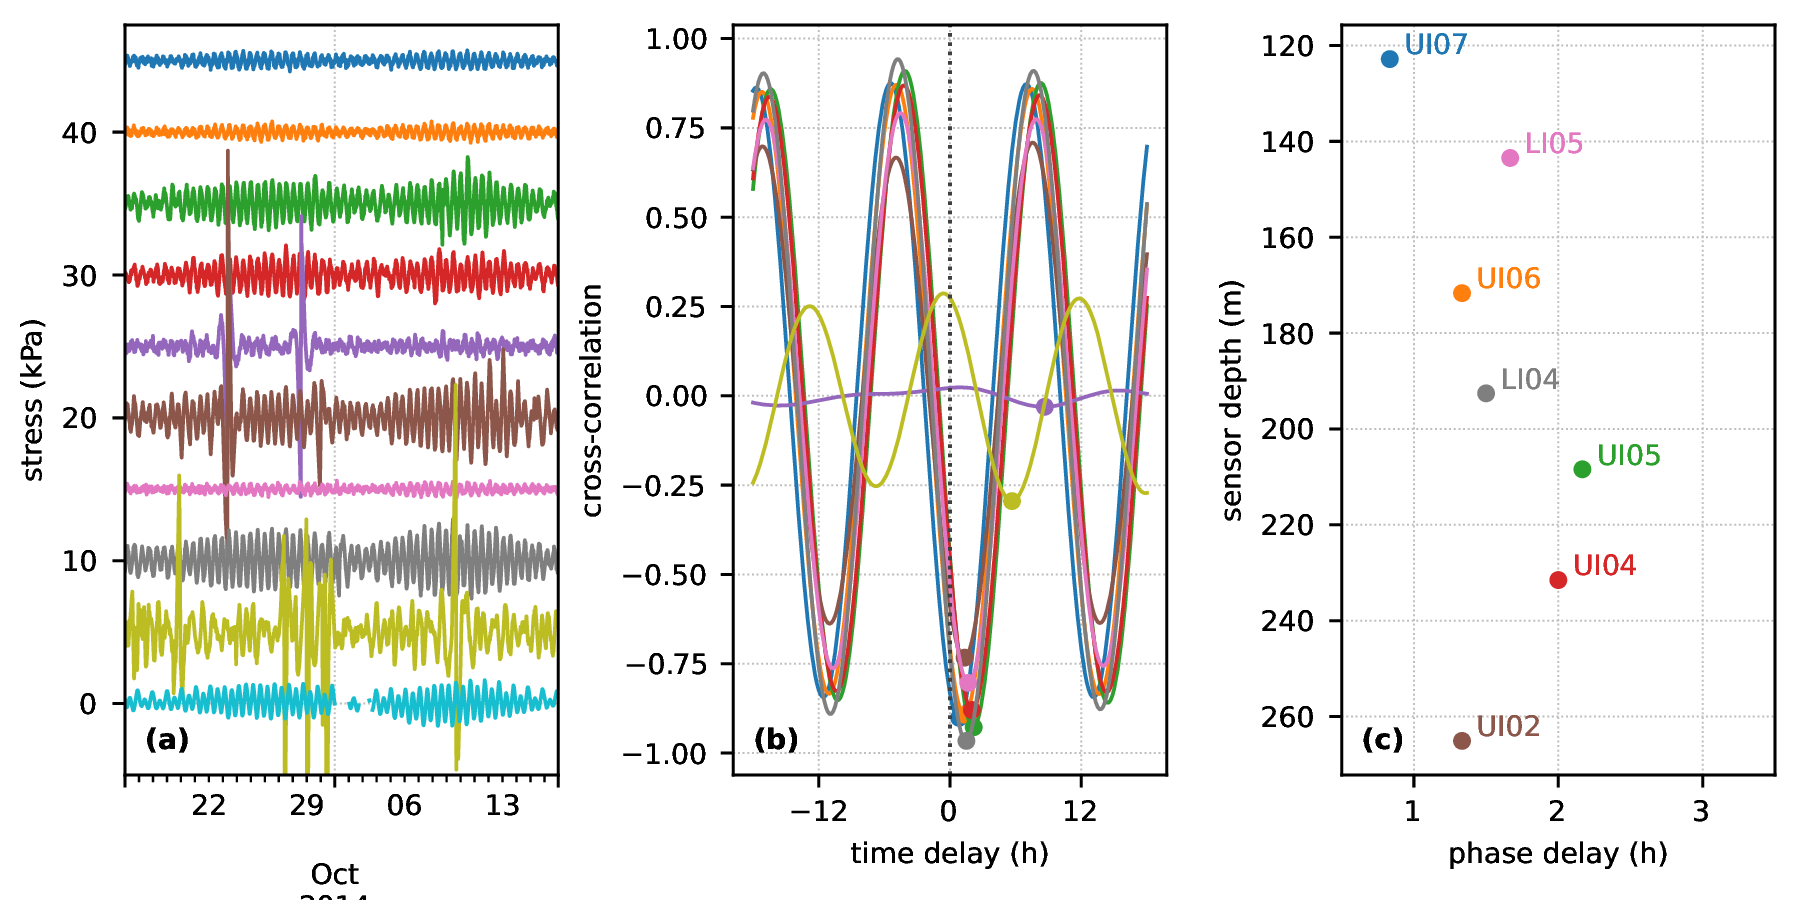
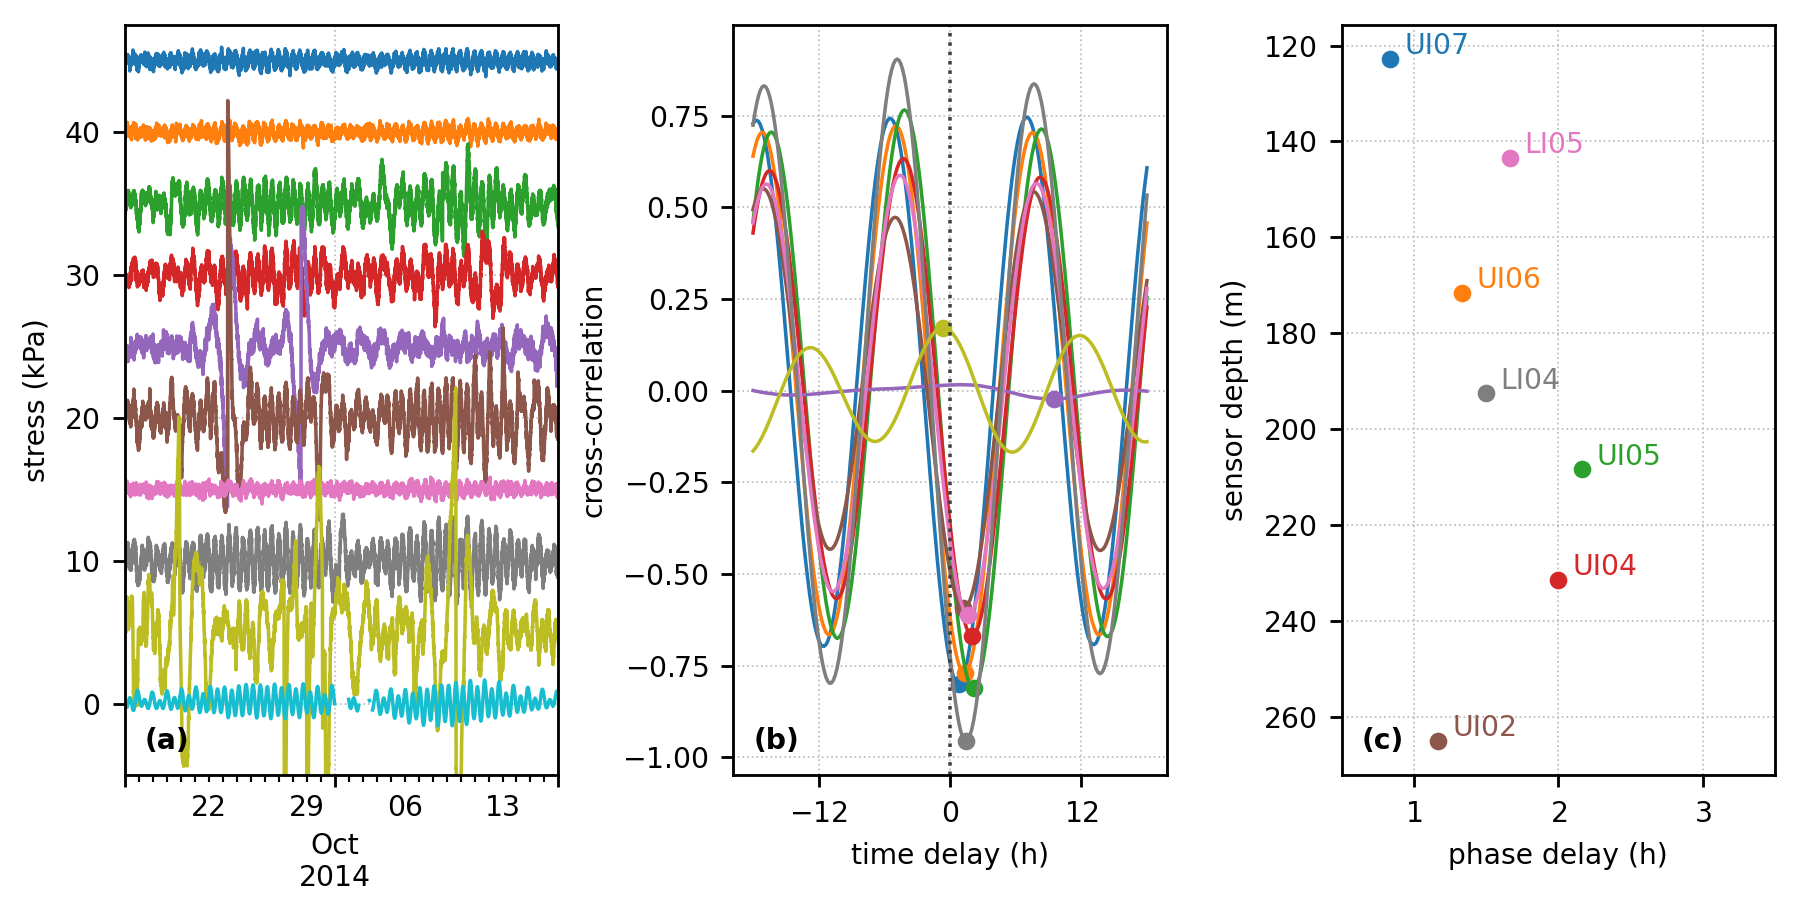
Add ISAR-8 Hachioji 2025 slides. (#11)
* Update reveal.js to latest release.

* Add slides for tomorrow.

* Update Bowdoin stress figures.

* Add bitmaps for partially drawn figures.

* Make last minute changes to slides.

* Add poster preview for last slide.

* Fix link to poster.

* Reorder appendix and more last-minute fixes.

diff --git a/_talks/251029-isar-bowdoin.md b/_talks/251029-isar-bowdoin.md
@@ -1,0 +1,94 @@
+---
+date: 2025-10-29
+title: Can we measure stress in glaciers?
+description: 8th International Symposium on Arctic Research
+author: Julien Seguinot, Evgeny A. Podolskiy, Shin Sugiyama, Harry Zekollari
+layout: slides
+---
+
+<!-- can't be moved to template -->
+<section data-markdown data-separator-notes="^:::">
+<textarea data-template>
+
+# Can we measure stress in glaciers?
+<!-- .slide: data-background-image="https://live.staticflickr.com/65535/49298829236_2546afe01d_k.jpg" -->
+
+[Julien Seguinot](https://juseg.dev), Evgeny A. Podolskiy, Shin Sugiyama,
+Harry Zekollari. **Return of the Bowdoin Glacier: measuring the dark side of
+the force**. *ISAR-8*, 29 Oct 2025.
+<!-- .element: class="titlebox fragment fade-out" data-fragment-index="1" -->
+
+::: TODO
+- partial figures for boreholes, timeseries, etc?
+- highpass filter cut-off frequencies are different
+
+---
+### Bowdoin Glacier drilling site
+<!-- .slide: data-background-image="https://live.staticflickr.com/65535/49298343083_3bfbd1cc01_k.jpg" -->
+
+---
+### Bowdoin borehole locations
+<div class="r-stack r-stretch">
+  <img src="../assets/figures/bowstr_boreholes_01.png">
+  <img src="../assets/figures/bowstr_boreholes_02.png" class="fragment">
+  <img src="../assets/figures/bowstr_boreholes.png" class="fragment">
+</div>
+
+---
+### Three-year borehole record
+<div class="r-stack r-stretch">
+  <img src="../assets/figures/bowstr_timeseries_01.png">
+  <img src="../assets/figures/bowstr_timeseries_02.png" class="fragment">
+  <img src="../assets/figures/bowstr_timeseries_03.png" class="fragment">
+  <img src="../assets/figures/bowstr_timeseries_04.png" class="fragment">
+  <img src="../assets/figures/bowstr_timeseries_05.png" class="fragment">
+  <img src="../assets/figures/bowstr_timeseries.png" class="fragment">
+</div>
+
+---
+### Fast Fourier transform
+<div class="r-stack r-stretch">
+  <img src="../assets/figures/bowstr_fourier_01.png">
+  <img src="../assets/figures/bowstr_fourier.png" class="fragment">
+</div>
+
+---
+### Sub-daily filtering
+<div class="r-stack r-stretch">
+  <img src="../assets/figures/bowstr_highpass_01.png">
+  <img src="../assets/figures/bowstr_highpass.png" class="fragment">
+</div>
+
+---
+### Cross-correlation over a month
+<div class="r-stack r-stretch">
+  <img src="../assets/figures/bowstr_correlate_01.png">
+  <img src="../assets/figures/bowstr_correlate_02.png" class="fragment">
+  <img src="../assets/figures/bowstr_correlate.png" class="fragment">
+</div>
+
+---
+### Can we measure stress in glaciers?
+I think so.
+
+---
+### Please come see my poster
+<!-- .slide: data-background-image="https://live.staticflickr.com/65535/54855949773_43d970b093_k.jpg" -->
+<img class="r-stretch" style="float: right"
+  src="../assets/figures/poster-251029-isar8-inception.jpg">
+
+---
+### Appendix -- rolling-window spectrograms
+<img class="r-stretch" src="../assets/figures/bowstr_specgrams.png">
+
+---
+### Appendix -- wavelet transforms
+<img class="r-stretch" src="../assets/figures/bowstr_wavelets.png">
+
+---
+### Appendix -- rolling-window cross-correlation
+<img class="r-stretch" src="../assets/figures/bowstr_rollcorr.png">
+
+<!-- can't be moved to template -->
+</textarea>
+</section>
